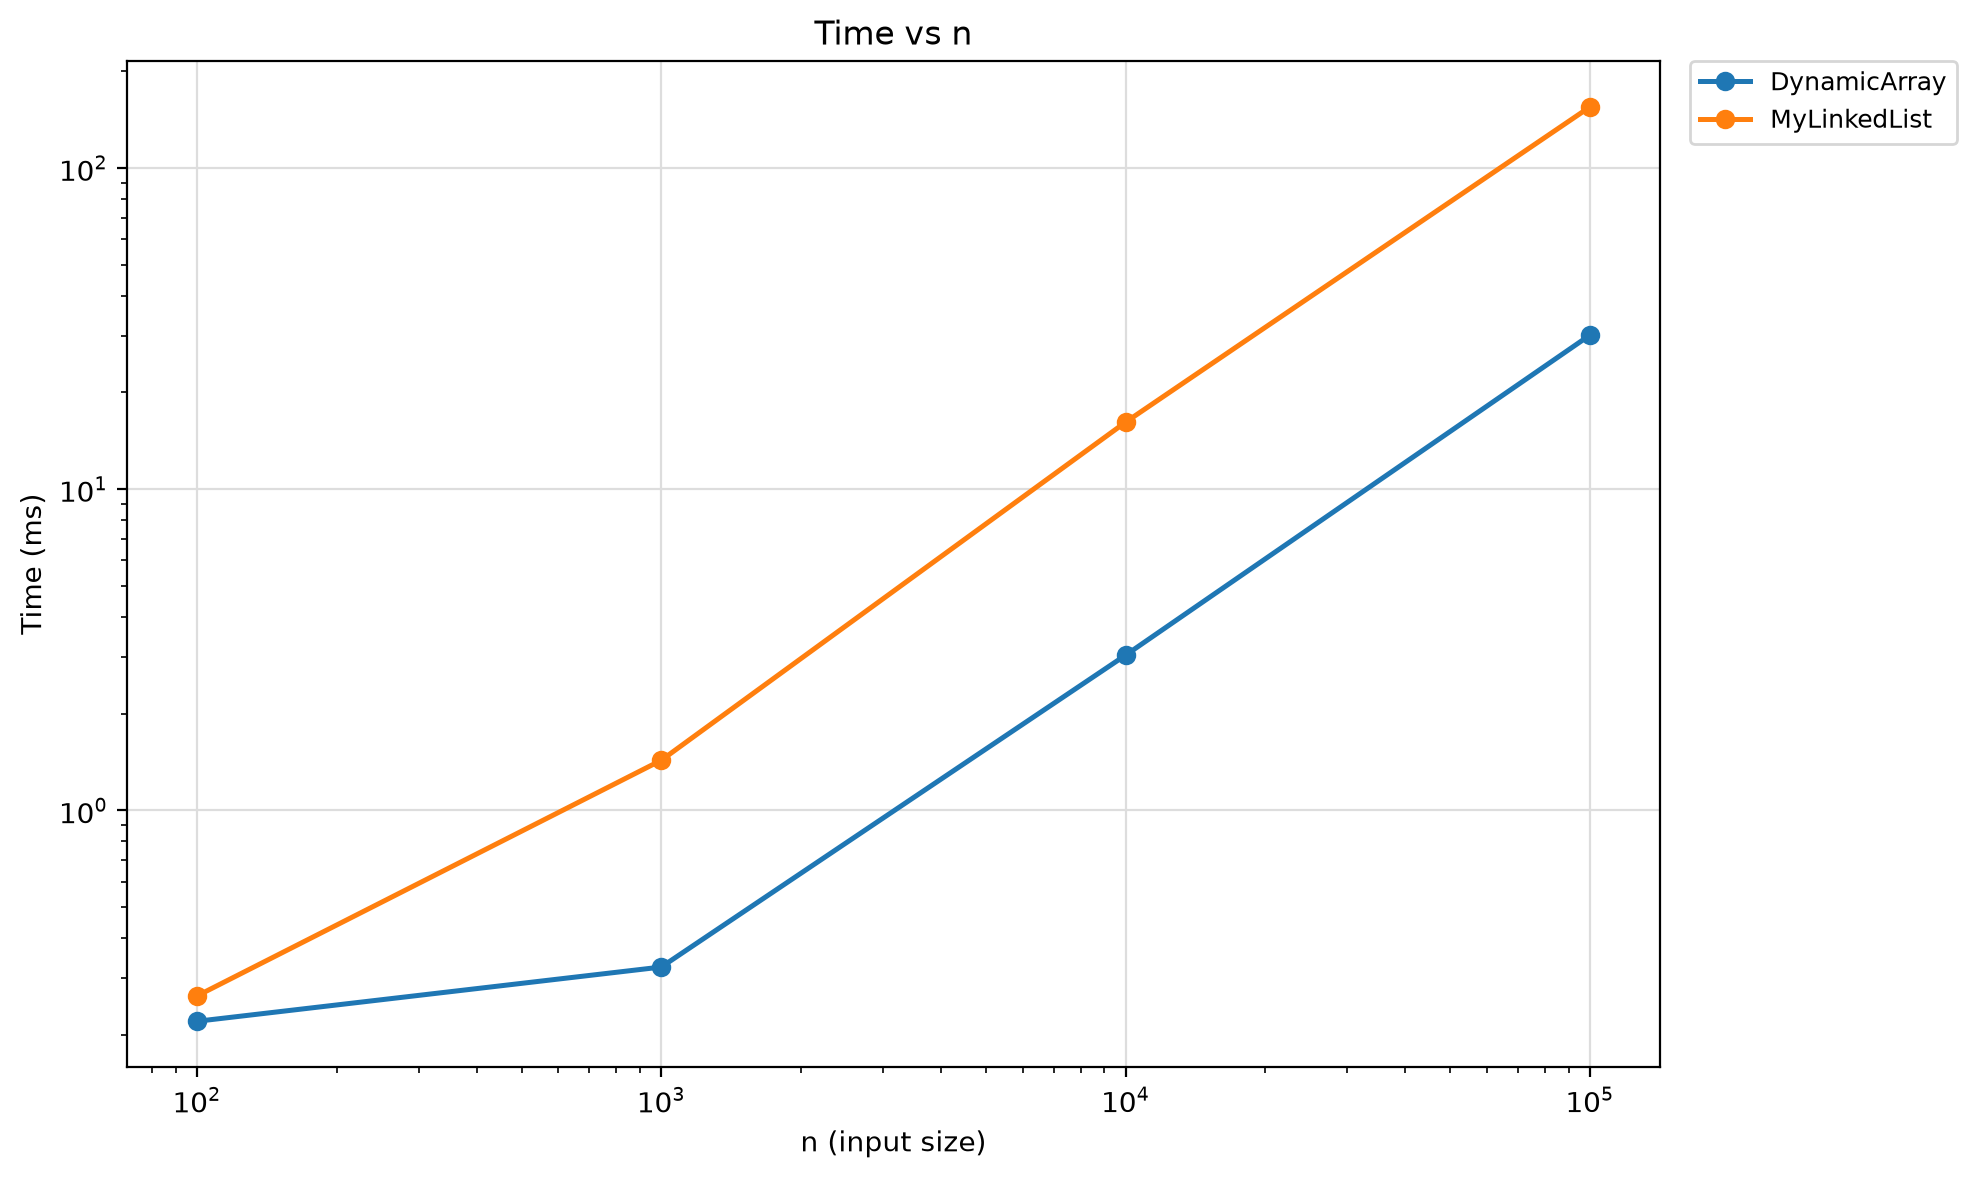
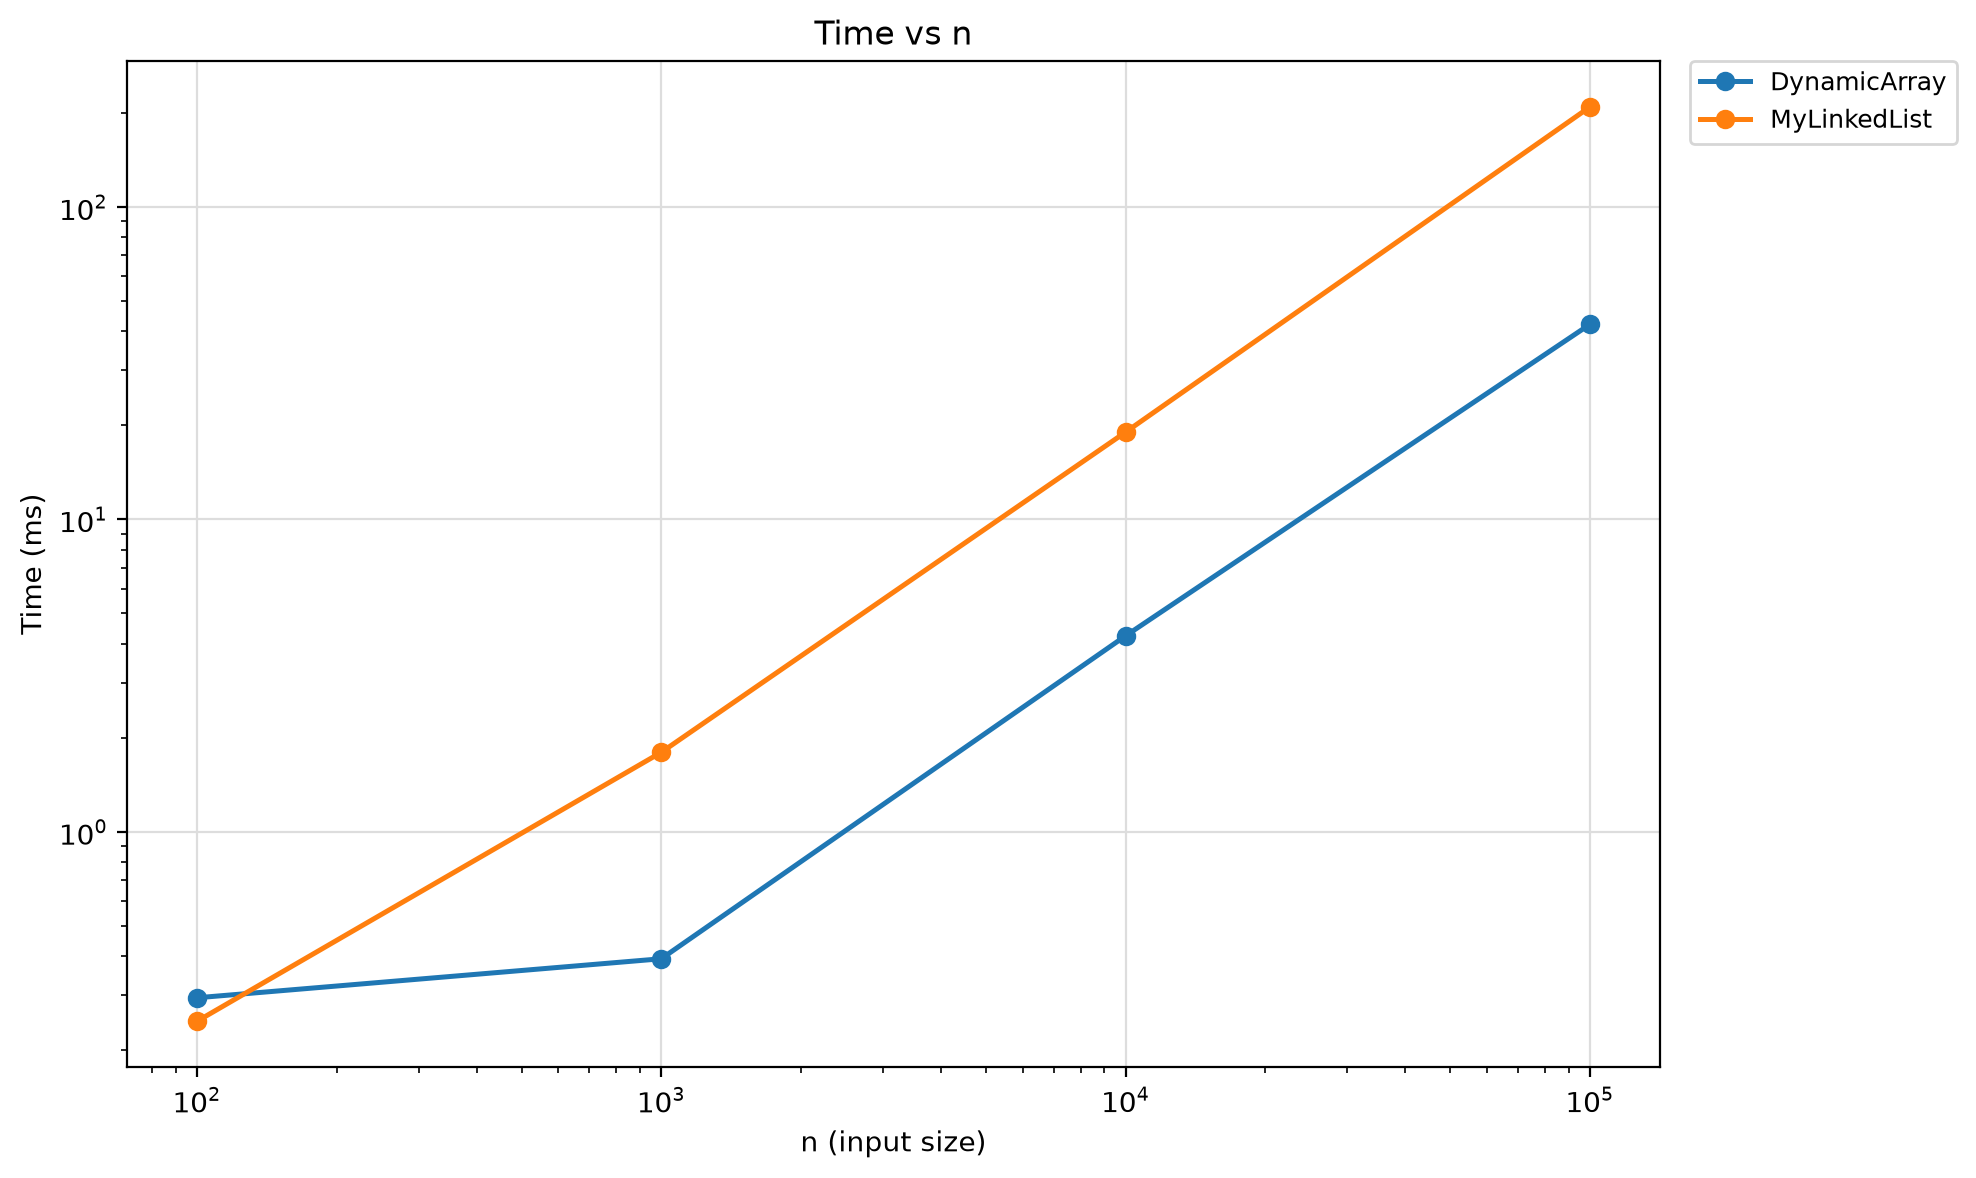
Fix randomized workload data and update results

diff --git a/src/main/java/org/example/BenchmarkRunner.java b/src/main/java/org/example/BenchmarkRunner.java
@@ -66,32 +66,65 @@ public class BenchmarkRunner {
         return indices;
     }
 
-    private static IntList createList(String structure, int n) {
-        IntList list;
+    private static int[] createListValues(int n) {
+        int[] values = new int[n];
 
-        if (structure.equals("DynamicArray")) {
-            list = new DynamicArray();
-        } else if (structure.equals("MyLinkedList")) {
-            list = new MyLinkedList();
-        } else {
-            throw new IllegalArgumentException(
-                    "Unknown structure: " + structure
-            );
-        }
         for (int i = 0; i < n; i++) {
-            list.add(i);
+            values[i] = i;
         }
 
-        list.resetMetrics();
-        return list;
+        Random random = new Random(42);
+
+        for (int i = n - 1; i > 0; i--) {
+            int j = random.nextInt(i + 1);
+
+            int temporary = values[i];
+            values[i] = values[j];
+            values[j] = temporary;
+        }
+
+        return values;
     }
+
+
+             private static IntList createList(String structure, int n) {
+             IntList list;
+
+             if (structure.equals("DynamicArray")) {
+                 list = new DynamicArray();
+             } else if (structure.equals("MyLinkedList")) {
+                 list = new MyLinkedList();
+             } else {
+                 throw new IllegalArgumentException(
+                         "Unknown structure: " + structure
+                 );
+             }
+
+             int[] values = createListValues(n);
+
+             for (int value : values) {
+                 list.add(value);
+             }
+
+             list.resetMetrics();
+             return list;
+         }
 
     private static Measurement runW1(
             String structure, int n, int[] indices
     ) {
         IntList list = createList(structure, n);
-        long checksum = 0;
+        int[] values = createListValues(n);
 
+        long expectedChecksum = 0;
+        long expectedListSteps = 0;
+
+        for (int index : indices) {
+            expectedChecksum += values[index];
+            expectedListSteps += index;
+        }
+
+        long checksum = 0;
         long start = System.nanoTime();
 
         for (int index : indices) {
@@ -101,19 +134,13 @@ public class BenchmarkRunner {
         long elapsed = System.nanoTime() - start;
         sink = checksum;
 
-        long expectedChecksum = 0;
-
-        for (int index : indices) {
-            expectedChecksum += index;
-        }
-
         if (checksum != expectedChecksum) {
             throw new IllegalStateException("W1 checksum mismatch");
         }
 
         long expectedSteps = structure.equals("DynamicArray")
                 ? indices.length
-                : expectedChecksum;
+                : expectedListSteps;
 
         if (list.getSteps() != expectedSteps
                 || list.getMoves() != 0
@@ -188,8 +215,37 @@ public class BenchmarkRunner {
             String structure, int n, int[] queries
     ) {
         IntList list = createList(structure, n);
-        int found = 0;
+        int[] values = createListValues(n);
+        int[] positions = new int[n];
 
+        for (int i = 0; i < n; i++) {
+            positions[values[i]] = i;
+        }
+
+        long expectedComparisons = 0;
+        long expectedListSteps = 0;
+        int expectedFound = 0;
+
+        for (int value : queries) {
+            if (value >= 0 && value < n) {
+                int position = positions[value];
+
+                expectedFound++;
+                expectedComparisons += position + 1L;
+                expectedListSteps += position;
+            } else {
+                expectedComparisons += n;
+                expectedListSteps += n;
+            }
+        }
+
+        if (expectedFound != 500) {
+            throw new IllegalStateException(
+                    "W2 must contain exactly 500 successful queries"
+            );
+        }
+
+        int found = 0;
         long start = System.nanoTime();
 
         for (int value : queries) {
@@ -197,24 +253,12 @@ public class BenchmarkRunner {
                 found++;
             }
         }
+
         long elapsed = System.nanoTime() - start;
         sink = found;
 
-        if (found != 500) {
+        if (found != expectedFound) {
             throw new IllegalStateException("W2 result mismatch");
-        }
-
-        long expectedComparisons = 0;
-        long expectedListSteps = 0;
-
-        for (int value : queries) {
-            if (value < n) {
-                expectedComparisons += value + 1L;
-                expectedListSteps += value;
-            } else {
-                expectedComparisons += n;
-                expectedListSteps += n;
-            }
         }
 
         long expectedSteps = structure.equals("DynamicArray")
@@ -308,10 +352,12 @@ public class BenchmarkRunner {
         if (checksum != -1000 || list.size() != n) {
             throw new IllegalStateException("W3 result mismatch");
         }
+        int[] expectedValues = createListValues(n);
+
         int[] checkIndices = {0, n / 2, n - 1};
 
         for (int i : checkIndices) {
-            if (list.get(i) != i) {
+            if (list.get(i) != expectedValues[i]) {
                 throw new IllegalStateException(
                         "W3 contents mismatch at index " + i
                 );
@@ -456,6 +502,8 @@ public class BenchmarkRunner {
 
         csv.append(row);
         System.out.print(row);
+
+
     }
 }
 

diff --git a/plot_results.py b/plot_results.py
@@ -322,7 +322,7 @@ def plot_memory(rows):
 
         ax.plot(
             [int(row["n"]) for row in data],
-            [int(row["total_bytes"]) / 1024 for row in data],
+            [int(row["total_bytes"]) / 1_000_000 for row in data],
             label=structure,
             color=COLORS[structure],
             marker=marker,
@@ -332,7 +332,7 @@ def plot_memory(rows):
             linewidth=1.8,
         )
 
-    configure_axis(ax, "Memory (KiB)", logarithmic_y=True)
+    configure_axis(ax, "Memory (MB)", logarithmic_y=True)
     ax.set_title("Memory vs n")
     add_legend(ax)
 

diff --git a/REPORT.md b/REPORT.md
@@ -32,6 +32,11 @@ checks are outside the timed section. For W1–W3, initial list population
 is also outside the timed section. Counters are reset before measurement.
 Checksums are consumed through a volatile field.
 
+For W1–W3, both lists receive the same permutation of integers
+0 through n - 1, shuffled using Random(42). Successful search
+queries use values from this range; unsuccessful queries use
+values from n through 2n - 1.
+
 | Workload | Operations |
 |---|---|
 | W1 | 10,000 random indexed reads |
